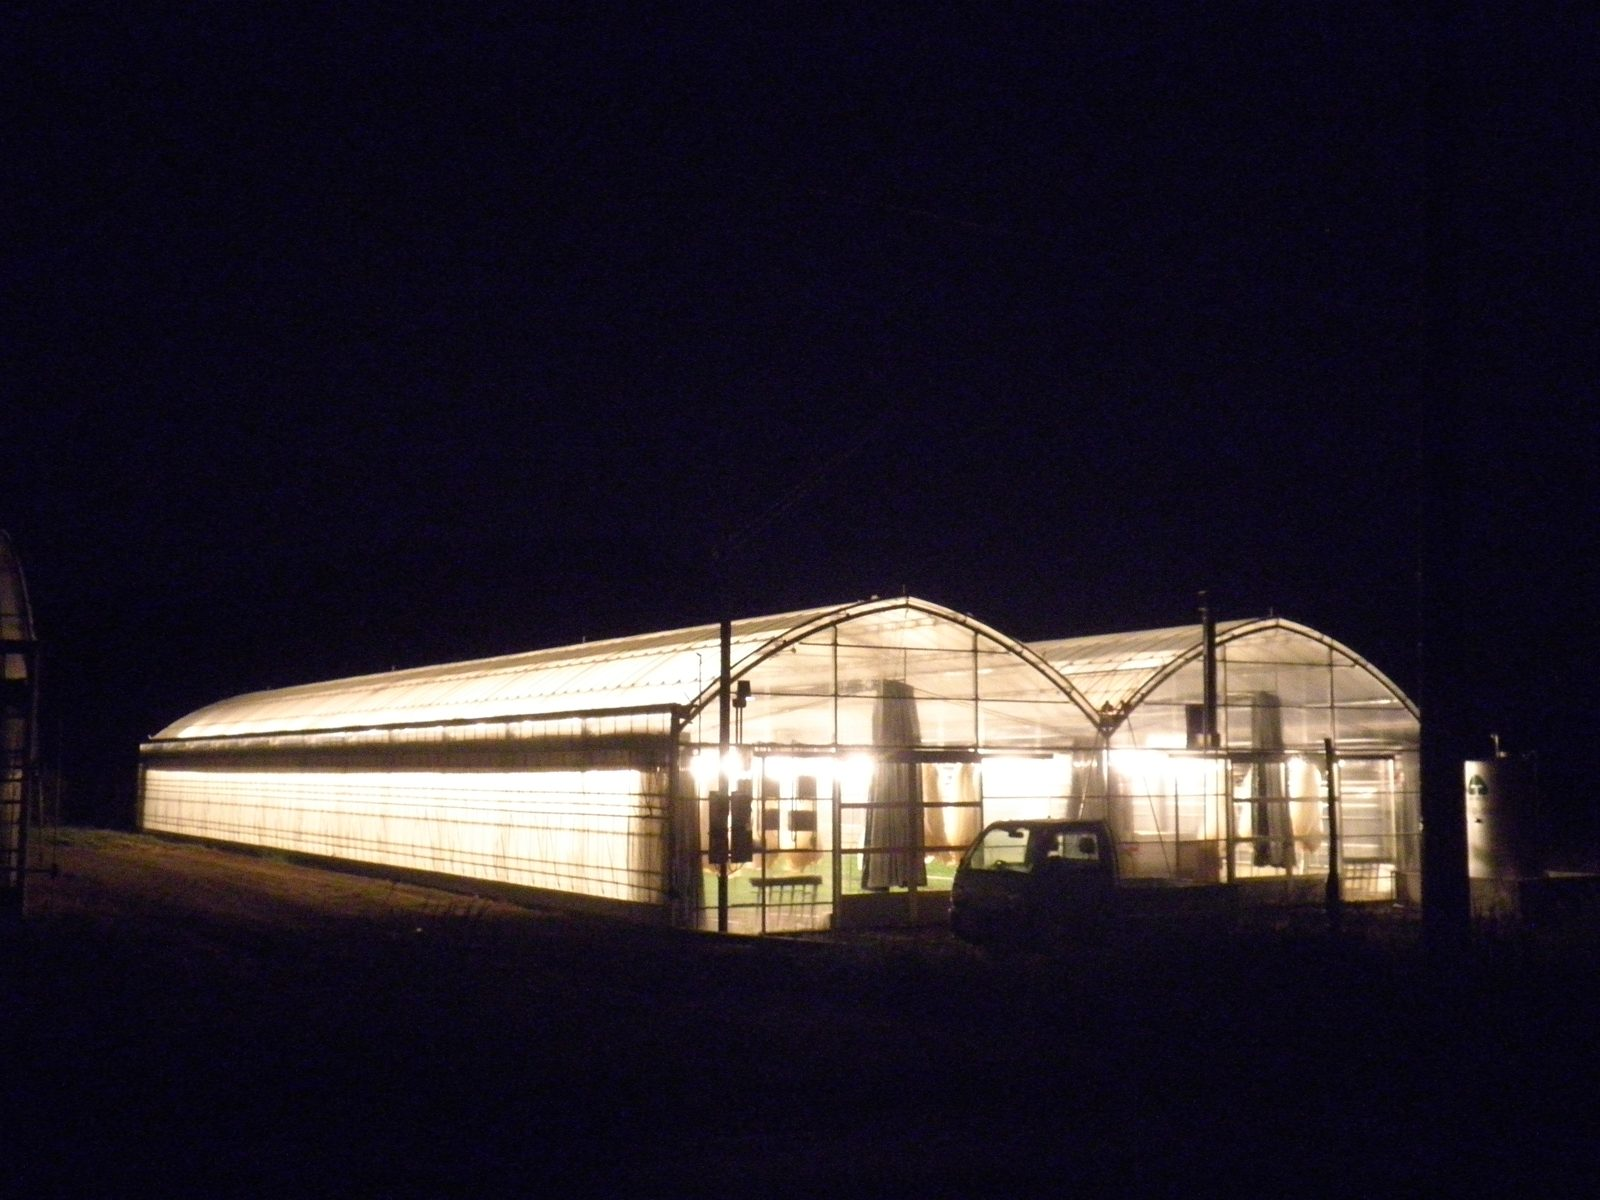
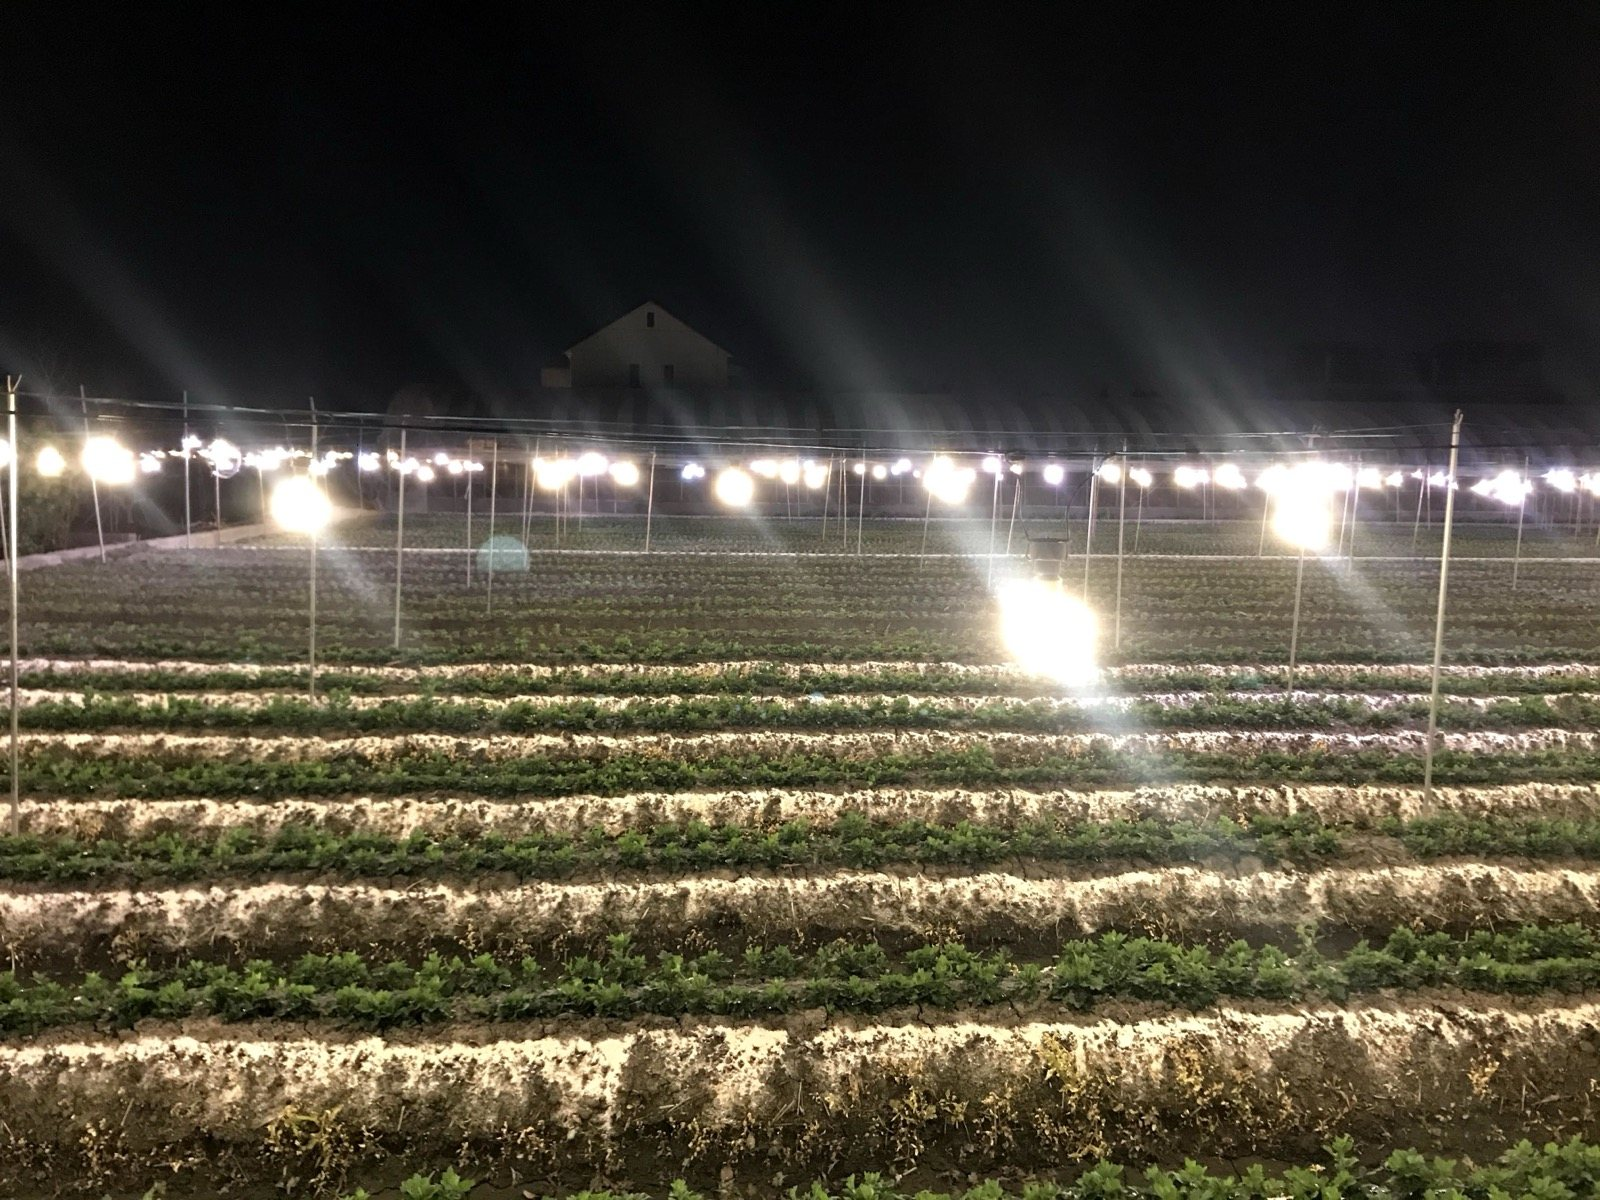
首頁「菊花不夜城」換成 EFETL 拍攝的電照菊夜景，取代日本示意照

diff --git a/index.html b/index.html
@@ -436,7 +436,7 @@ const SPOTS = [
         {s:"Tianwei Highway Garden is famous for its flower farms. Visitors can buy plants and seeds there.", zh:"田尾公路花園以花田聞名，遊客可以在那裡買植物和種子。", w:[["famous","有名的"],["visitor","遊客"],["plant","植物"],["seed","種子"]]},
         {s:"Covering 341 hectares, the garden is Taiwan's largest center for growing and selling flowers, seedlings and bonsai.", zh:"占地 341 公頃，這座花園是臺灣最大的花卉、苗木和盆景生產與銷售中心。", w:[["hectare","公頃"],["seedling","幼苗"],["bonsai","盆景"],["nursery","苗圃"]]} ]},
 
- { img:"chrysanthemum-lights.jpg", cap:{"zh": "示意照：夜間開燈的電照菊溫室（攝於日本）", "L": {"en": "Illustration: a lit chrysanthemum greenhouse in Japan", "ja": "イメージ写真：夜に電照する菊の温室（日本で撮影）", "th": "ภาพประกอบ: โรงเรือนเบญจมาศที่เปิดไฟตอนกลางคืน (ถ่ายที่ญี่ปุ่น)", "id": "Ilustrasi: rumah kaca krisan yang diterangi lampu pada malam hari (difoto di Jepang)", "vi": "Ảnh minh họa: nhà kính hoa cúc thắp đèn ban đêm (chụp tại Nhật Bản)", "ko": "참고 사진: 밤에 불을 밝힌 국화 온실(일본에서 촬영)", "de": "Symbolbild: beleuchtetes Chrysanthemen-Gewächshaus (aufgenommen in Japan)"}}, zh:"菊花不夜城", icon:"💡",
+ { img:"chrysanthemum-lights.jpg", cap:{"zh": "夜晚的電照菊田：一排排電燈照著菊花｜EFETL 拍攝", "L": {"en": "A chrysanthemum field at night, lit by rows of lamps | Photo: EFETL", "ja": "夜の電照菊畑：ずらりと並んだ電灯が菊を照らす｜撮影：EFETL", "th": "ทุ่งเบญจมาศยามค่ำคืนที่มีหลอดไฟส่องเป็นแถว | ถ่ายภาพโดย EFETL", "id": "Ladang krisan pada malam hari, disinari barisan lampu | Foto: EFETL", "vi": "Cánh đồng hoa cúc ban đêm được chiếu sáng bằng từng hàng đèn | Ảnh: EFETL", "ko": "밤의 전조 국화밭: 줄지어 선 전등이 국화를 비춘다 | 촬영: EFETL", "de": "Chrysanthemenfeld bei Nacht, von Lampenreihen beleuchtet | Foto: EFETL"}}, zh:"菊花不夜城", icon:"💡",
    name:{en:"Chrysanthemum Fields at Night", ja:"菊畑の不夜城", th:"ทุ่งเบญจมาศยามค่ำคืน", id:"Ladang Krisan di Malam Hari", vi:"Cánh đồng hoa cúc về đêm", ko:"국화밭의 불야성", de:"Chrysanthemenfelder bei Nacht"},
    zhText:"秋冬夜晚，花農會打開一排排電燈，讓菊花晚一點開花、花莖長得更高。整片田亮晶晶的，像一座不睡覺的城市。",
    l2:{en:"On autumn and winter nights, farmers switch on rows of lights so the flowers grow taller stems — the fields glow like a city that never sleeps.",

diff --git a/credits.html b/credits.html
@@ -26,7 +26,6 @@ a{color:var(--green)}
   <ul>
     <li>首頁大圖、單車、花朵造景、藍眼菊、小花特寫：JerryLai0208（<a href="https://creativecommons.org/licenses/by-sa/2.0/" target="_blank" rel="noopener">CC BY-SA 2.0</a>）</li>
     <li>公路花園、故事苗圃、仙人掌、仙人掌娃娃、蝴蝶蘭、勳章菊、觀葉植物：Fat Joe's Photos（<a href="https://creativecommons.org/licenses/by-sa/2.0/" target="_blank" rel="noopener">CC BY-SA 2.0</a>）</li>
-    <li>電照菊示意照（攝於日本）：At by At（<a href="https://creativecommons.org/licenses/by-sa/3.0/" target="_blank" rel="noopener">CC BY-SA 3.0</a>）</li>
     <li>海豐崙教會：Shouji Hasegawa（<a href="https://creativecommons.org/publicdomain/zero/1.0/" target="_blank" rel="noopener">CC0</a>）</li>
     <li>台1線：Chi-Hung Lin（<a href="https://creativecommons.org/licenses/by-sa/3.0/" target="_blank" rel="noopener">CC BY-SA 3.0</a>）</li>
       <li>田尾怡心園、怡心園兔子雕像與遊具、夜晚的「花鄉田尾」燈飾、「花鄉田尾」地標雕塑：EFETL 拍攝（2026）</li>
@@ -34,6 +33,7 @@ a{color:var(--green)}
       <li>仁豐國小、仁里村「三十張犁」看板與北玄宮的照片（含空拍）：EFETL 拍攝（2026）</li>
       <li>陸豐國小的照片（空拍）：EFETL 拍攝（2026）</li>
       <li>南鎮國小的照片：EFETL 拍攝（2026）</li>
+      <li>夜晚電照菊田的照片：EFETL 拍攝（2026）</li>
   </ul>
 </main>
 </body>
